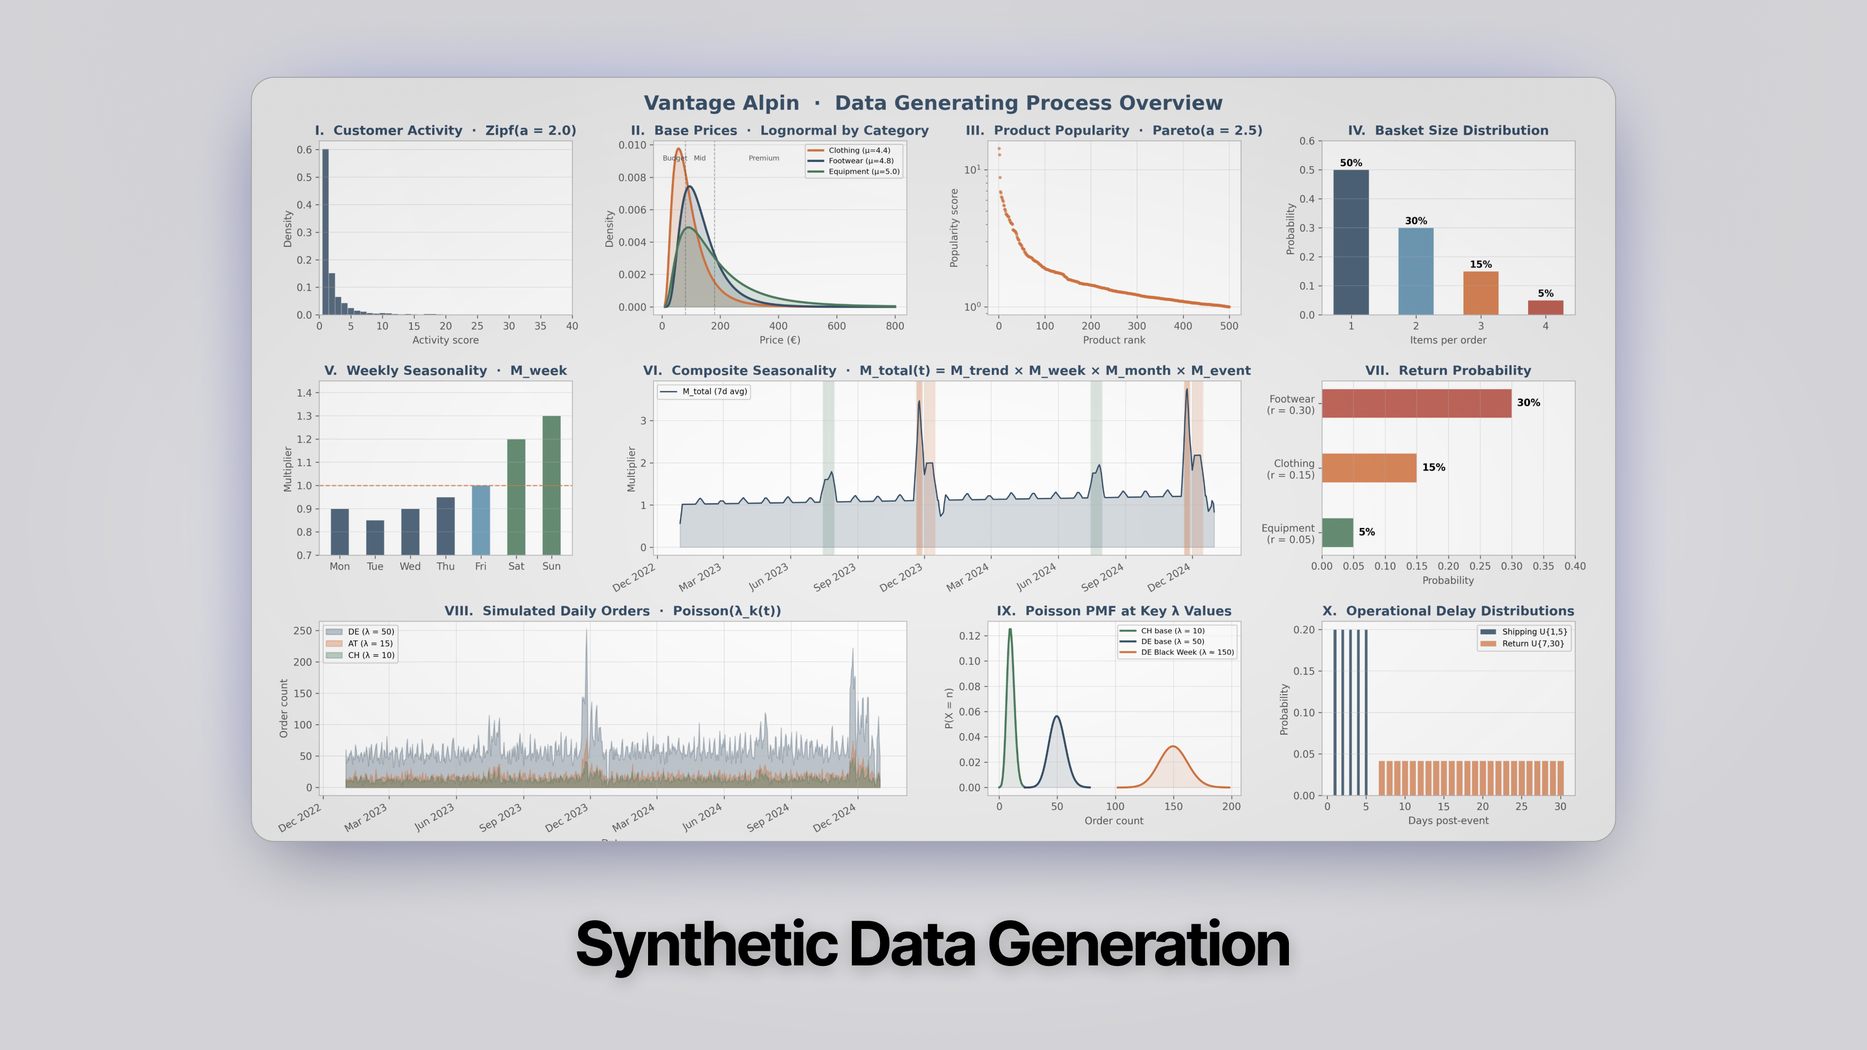
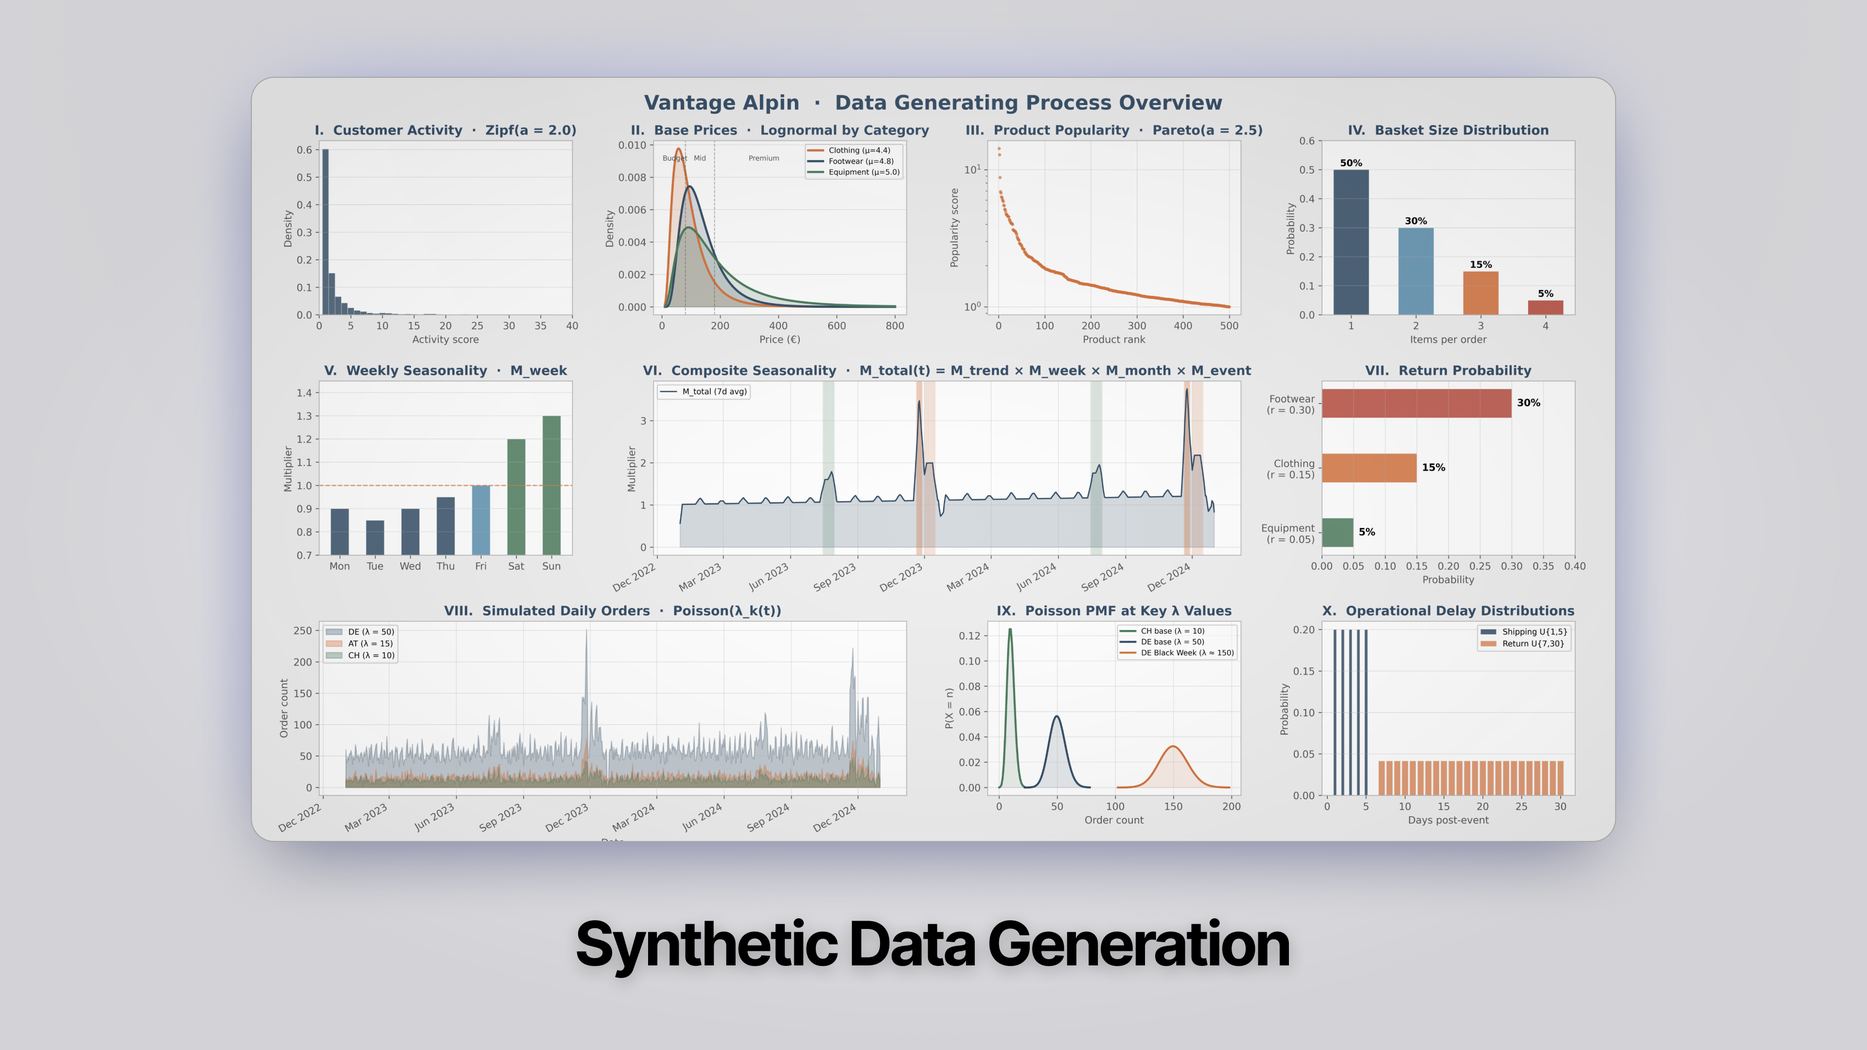
updated assets

diff --git a/vantage-rebuild/viz/semantic_model_taxonomy.html b/vantage-rebuild/viz/semantic_model_taxonomy.html
@@ -1,0 +1,311 @@
+<!DOCTYPE html>
+<html lang="en">
+<head>
+<meta charset="UTF-8">
+<meta name="viewport" content="width=1920">
+<title>Vantage Alpin — Semantic Model Taxonomy</title>
+<link href="https://fonts.googleapis.com/css2?family=Inter:wght@300;400;500;600;700;800&display=swap" rel="stylesheet">
+<style>
+  :root {
+    --card: #DCDBDC;
+    --primary: #334C65;
+    --accent: #D4723C;
+    --bg: #EEEDEE;
+    --text: #000000;
+    --text-muted: #555555;
+    --white: #FFFFFF;
+    --border: #C0BFC0;
+  }
+  * { margin: 0; padding: 0; box-sizing: border-box; }
+  body {
+    font-family: 'Inter', sans-serif;
+    background: var(--bg);
+    color: var(--text);
+    -webkit-font-smoothing: antialiased;
+    width: 1920px;
+    height: 1080px;
+    overflow: hidden;
+  }
+  .page {
+    width: 1920px;
+    height: 1080px;
+    padding: 40px 56px 32px;
+    display: flex;
+    flex-direction: column;
+  }
+  .header {
+    display: flex;
+    align-items: center;
+    justify-content: space-between;
+    margin-bottom: 28px;
+    flex-shrink: 0;
+  }
+  .header-left { display: flex; align-items: baseline; gap: 14px; }
+  .header h1 { font-size: 32px; font-weight: 700; letter-spacing: -0.5px; color: var(--primary); }
+  .header .subtitle { font-weight: 400; color: var(--text-muted); font-size: 20px; }
+  .header .badge { font-size: 11px; font-weight: 700; text-transform: uppercase; letter-spacing: 2px; color: var(--white); background: var(--accent); padding: 7px 18px; border-radius: 4px; }
+
+  .content {
+    display: grid;
+    grid-template-columns: 520px 1fr 1fr;
+    gap: 32px;
+    flex: 1;
+    min-height: 0;
+  }
+
+  .section-title {
+    font-size: 11px; font-weight: 700; text-transform: uppercase; letter-spacing: 2.5px;
+    color: var(--primary); margin-bottom: 14px; padding-bottom: 8px;
+    border-bottom: 2px solid var(--primary);
+    display: flex; align-items: center; gap: 8px;
+  }
+  .section-title .num {
+    background: var(--primary); color: var(--white);
+    width: 22px; height: 22px; border-radius: 3px;
+    display: inline-flex; align-items: center; justify-content: center;
+    font-size: 11px; font-weight: 700;
+  }
+
+  .folder-tree { display: flex; flex-direction: column; gap: 8px; }
+  .folder { background: var(--card); border-radius: 6px; overflow: hidden; }
+  .folder-header {
+    display: flex; align-items: center; gap: 10px;
+    padding: 9px 14px; background: var(--primary); color: var(--white);
+  }
+  .folder-header .folder-icon { font-size: 13px; opacity: 0.6; }
+  .folder-header .folder-name { font-size: 13px; font-weight: 600; flex: 1; }
+  .folder-header .folder-label { font-size: 9px; font-weight: 600; text-transform: uppercase; letter-spacing: 1.2px; opacity: 0.55; }
+  .folder-body { padding: 7px 14px; }
+  .subfolder-row {
+    display: flex; align-items: center; gap: 6px;
+    padding: 3px 0; border-bottom: 1px solid rgba(0,0,0,0.05);
+  }
+  .subfolder-row:last-child { border-bottom: none; }
+  .sf-icon { color: var(--accent); font-size: 10px; font-weight: 800; flex-shrink: 0; }
+  .sf-name { font-size: 11px; font-weight: 700; color: var(--text); white-space: nowrap; min-width: 62px; }
+  .measure-chips { display: flex; flex-wrap: wrap; gap: 3px; flex: 1; }
+  .chip {
+    font-size: 9.5px; font-weight: 500; background: var(--white); color: var(--text);
+    padding: 2px 7px; border-radius: 3px; white-space: nowrap;
+  }
+  .chip.accent { background: var(--accent); color: var(--white); }
+
+  .convention-table { width: 100%; border-collapse: collapse; font-size: 12px; }
+  .convention-table thead th {
+    text-align: left; padding: 8px 12px; background: var(--primary); color: var(--white);
+    font-weight: 600; font-size: 10px; text-transform: uppercase; letter-spacing: 1px;
+  }
+  .convention-table thead th:first-child { border-radius: 5px 0 0 0; }
+  .convention-table thead th:last-child { border-radius: 0 5px 0 0; }
+  .convention-table tbody td { padding: 7px 12px; background: var(--card); border-bottom: 1px solid var(--border); }
+  .convention-table tbody tr:last-child td { border-bottom: none; }
+  .convention-table tbody tr:last-child td:first-child { border-radius: 0 0 0 5px; }
+  .convention-table tbody tr:last-child td:last-child { border-radius: 0 0 5px 0; }
+  .comp-label { font-weight: 700; color: var(--primary); }
+  .example-code { font-weight: 600; color: var(--accent); font-size: 11px; }
+
+  .example-breakdown { background: var(--card); border-radius: 6px; padding: 16px 20px; margin-top: 14px; }
+  .example-breakdown .label { font-size: 9px; font-weight: 700; text-transform: uppercase; letter-spacing: 2px; color: var(--text-muted); margin-bottom: 12px; }
+  .measure-anatomy { display: flex; align-items: center; justify-content: center; gap: 6px; }
+  .anatomy-part { text-align: center; }
+  .anatomy-part .token { font-size: 18px; font-weight: 700; padding: 6px 14px; border-radius: 4px; display: inline-block; margin-bottom: 6px; }
+  .anatomy-part .token.metric { background: var(--primary); color: var(--white); }
+  .anatomy-part .token.agg { background: #4A7A5B; color: var(--white); }
+  .anatomy-part .token.comp { background: var(--accent); color: var(--white); }
+  .anatomy-part .desc { font-size: 9px; font-weight: 700; text-transform: uppercase; letter-spacing: 1.2px; }
+  .anatomy-part .desc.d-metric { color: var(--primary); }
+  .anatomy-part .desc.d-agg { color: #4A7A5B; }
+  .anatomy-part .desc.d-comp { color: var(--accent); }
+
+  .calc-group-card { background: var(--card); border-radius: 6px; overflow: hidden; }
+  .calc-group-header {
+    background: var(--primary); color: var(--white); padding: 9px 14px;
+    font-size: 13px; font-weight: 600; display: flex; align-items: center; gap: 10px;
+  }
+  .cg-badge { background: rgba(255,255,255,0.15); padding: 2px 10px; border-radius: 3px; font-size: 9px; font-weight: 700; text-transform: uppercase; letter-spacing: 1px; }
+  .calc-group-body { padding: 12px 14px; }
+  .cg-desc { font-size: 11px; color: var(--text-muted); margin-bottom: 10px; line-height: 1.45; }
+  .cg-items { display: grid; grid-template-columns: 1fr 1fr 1fr; gap: 6px; }
+  .cg-item { background: var(--white); border-radius: 4px; padding: 8px 10px; }
+  .cg-item-name { font-size: 12px; font-weight: 700; color: var(--primary); display: block; }
+  .cg-item-dax { font-size: 10px; color: var(--text-muted); display: block; }
+
+  .principles { display: grid; grid-template-columns: 1fr 1fr; gap: 8px; }
+  .principle { background: var(--white); border-radius: 4px; padding: 10px 12px; display: flex; align-items: flex-start; gap: 10px; }
+  .p-icon { width: 24px; height: 24px; border-radius: 3px; background: var(--primary); color: var(--white); display: flex; align-items: center; justify-content: center; flex-shrink: 0; font-weight: 700; font-size: 11px; }
+  .p-text { font-size: 10.5px; font-weight: 500; line-height: 1.4; color: var(--text); }
+  .p-text strong { font-weight: 700; color: var(--primary); }
+
+  .footer {
+    display: flex; align-items: center; justify-content: space-between;
+    padding-top: 14px; margin-top: 20px; border-top: 1px solid var(--border);
+    font-size: 11px; color: var(--text-muted); font-weight: 500; flex-shrink: 0;
+  }
+  .footer .dot { width: 5px; height: 5px; border-radius: 50%; background: var(--accent); display: inline-block; margin: 0 8px; vertical-align: middle; }
+</style>
+</head>
+<body>
+<div class="page">
+  <div class="header">
+    <div class="header-left">
+      <h1>Semantic Model Taxonomy</h1>
+      <span class="subtitle">Vantage Alpin BI</span>
+    </div>
+    <div class="badge">DAX Engineering</div>
+  </div>
+
+  <div class="content">
+    <!-- COL 1: Folder Taxonomy -->
+    <div>
+      <div class="section-title"><span class="num">1</span> Measure Folder Taxonomy</div>
+      <div class="folder-tree">
+        <div class="folder">
+          <div class="folder-header">
+            <span class="folder-icon">📁</span>
+            <span class="folder-name">00 — Base Measures</span>
+            <span class="folder-label">Atomic Aggregations</span>
+          </div>
+          <div class="folder-body">
+            <div class="subfolder-row"><span class="sf-icon">›</span><span class="sf-name">Revenue</span><div class="measure-chips"><span class="chip">Gross Revenue ACT (€)</span><span class="chip">Gross Revenue BUD (€)</span></div></div>
+            <div class="subfolder-row"><span class="sf-icon">›</span><span class="sf-name">Cost</span><div class="measure-chips"><span class="chip">COGS Total ACT (€)</span><span class="chip">Marketing Cost ACT (€)</span><span class="chip">Logistics Cost ACT (€)</span></div></div>
+            <div class="subfolder-row"><span class="sf-icon">›</span><span class="sf-name">Orders</span><div class="measure-chips"><span class="chip">Orders Total ACT (#)</span><span class="chip">Quantity Total ACT (#)</span></div></div>
+            <div class="subfolder-row"><span class="sf-icon">›</span><span class="sf-name">Returns</span><div class="measure-chips"><span class="chip">Returned ACT (€)</span><span class="chip">Returned ACT (%)</span></div></div>
+            <div class="subfolder-row"><span class="sf-icon">›</span><span class="sf-name">Profit</span><div class="measure-chips"><span class="chip">Profit ACT (€)</span><span class="chip">Profit ACT MoM %</span></div></div>
+          </div>
+        </div>
+        <div class="folder">
+          <div class="folder-header">
+            <span class="folder-icon">📁</span>
+            <span class="folder-name">01 — Time Intelligence</span>
+            <span class="folder-label">Period-to-Date</span>
+          </div>
+          <div class="folder-body">
+            <div class="subfolder-row"><span class="sf-icon">›</span><span class="sf-name">Revenue</span><div class="measure-chips"><span class="chip">MTD</span><span class="chip">QTD</span><span class="chip">YTD</span><span class="chip">LM</span><span class="chip">MoM (€)</span><span class="chip accent">Display variants</span></div></div>
+          </div>
+        </div>
+        <div class="folder">
+          <div class="folder-header">
+            <span class="folder-icon">📁</span>
+            <span class="folder-name">02 — Comparisons</span>
+            <span class="folder-label">Variance & Benchmarking</span>
+          </div>
+          <div class="folder-body">
+            <div class="subfolder-row"><span class="sf-icon">›</span><span class="sf-name">vs Budget</span><div class="measure-chips"><span class="chip">VAR vs BUD (€)</span><span class="chip">VAR vs BUD (%)</span><span class="chip">Delta MTD / QTD / YTD</span></div></div>
+            <div class="subfolder-row"><span class="sf-icon">›</span><span class="sf-name">YoY</span><div class="measure-chips"><span class="chip">Δ% Revenue</span><span class="chip">Δ% COGS</span><span class="chip">Δ% Orders</span><span class="chip">Δ (bps) CM1</span><span class="chip">Δ (bps) CM2</span></div></div>
+          </div>
+        </div>
+        <div class="folder">
+          <div class="folder-header">
+            <span class="folder-icon">📁</span>
+            <span class="folder-name">03 — Business Performance</span>
+            <span class="folder-label">Derived P&L</span>
+          </div>
+          <div class="folder-body">
+            <div class="subfolder-row"><span class="sf-icon">›</span><span class="sf-name">CM1</span><div class="measure-chips"><span class="chip">CM1 ACT (€)</span><span class="chip">CM1 Margin ACT (%)</span></div></div>
+            <div class="subfolder-row"><span class="sf-icon">›</span><span class="sf-name">CM2</span><div class="measure-chips"><span class="chip">CM2 ACT (€)</span><span class="chip">CM2 Margin ACT (%)</span></div></div>
+            <div class="subfolder-row"><span class="sf-icon">›</span><span class="sf-name">Profit</span><div class="measure-chips"><span class="chip">Returned Profit Impact (€)</span></div></div>
+          </div>
+        </div>
+        <div class="folder">
+          <div class="folder-header">
+            <span class="folder-icon">📁</span>
+            <span class="folder-name">99 — Technical Framework</span>
+            <span class="folder-label">Non-Analytical</span>
+          </div>
+          <div class="folder-body">
+            <div class="subfolder-row"><span class="sf-icon">›</span><span class="sf-name" style="min-width:auto">Display</span><div class="measure-chips"><span class="chip">Auto-format (K/M/B)</span><span class="chip">YoY ▲▼</span><span class="chip">Applied Filters</span><span class="chip accent">Axis Scale (25%)</span></div></div>
+            <div class="subfolder-row"><span class="sf-icon">›</span><span class="sf-name" style="min-width:auto">Waterfall</span><div class="measure-chips"><span class="chip">Sign-flipped cost measures (×−1)</span></div></div>
+          </div>
+        </div>
+      </div>
+    </div>
+
+    <!-- COL 2: Naming Convention + Principles -->
+    <div>
+      <div class="section-title"><span class="num">2</span> Naming Convention</div>
+      <table class="convention-table">
+        <thead><tr><th>Component</th><th>Convention</th><th>Example</th></tr></thead>
+        <tbody>
+          <tr><td class="comp-label">Metric</td><td>Business term</td><td class="example-code">Gross Revenue · CM2 Margin · AOV</td></tr>
+          <tr><td class="comp-label">Scenario</td><td>ACT · BUD · LM</td><td class="example-code">Actual · Budget · Last Month</td></tr>
+          <tr><td class="comp-label">Aggregation</td><td>MTD · QTD · YTD</td><td class="example-code">Period-to-date variants</td></tr>
+          <tr><td class="comp-label">Comparison</td><td>Δ% · Δ (bps) · VAR vs</td><td class="example-code">Relative · Basis pts · Variance</td></tr>
+          <tr><td class="comp-label">Unit</td><td>(€) · (%) · (#)</td><td class="example-code">Currency · Ratio · Count</td></tr>
+          <tr><td class="comp-label">Suffix</td><td>Display · AF</td><td class="example-code">String-formatted · Auto-fmt</td></tr>
+        </tbody>
+      </table>
+      <div class="example-breakdown">
+        <div class="label">Example — Measure Anatomy</div>
+        <div class="measure-anatomy">
+          <div class="anatomy-part"><div class="token metric">Gross Revenue</div><div class="desc d-metric">Metric</div></div>
+          <div class="anatomy-part"><div class="token agg">MTD</div><div class="desc d-agg">Aggregation</div></div>
+          <div class="anatomy-part"><div class="token comp">Δ% YoY</div><div class="desc d-comp">Comparison</div></div>
+        </div>
+      </div>
+      <div style="margin-top: 20px;">
+        <div class="section-title"><span class="num">4</span> Design Principles</div>
+        <div class="principles">
+          <div class="principle"><div class="p-icon">L</div><div class="p-text"><strong>Layered deps</strong> — Only 00 touches fact tables. Each layer builds on prior layers.</div></div>
+          <div class="principle"><div class="p-icon">S</div><div class="p-text"><strong>Num / Display split</strong> — Typed values for logic, formatted strings for cards.</div></div>
+          <div class="principle"><div class="p-icon">W</div><div class="p-text"><strong>Waterfall convention</strong> — Cost measures pre-flipped (×−1) for rendering.</div></div>
+          <div class="principle"><div class="p-icon">D</div><div class="p-text"><strong>Single date table</strong> — synth_dim_date with DACH holidays & ISO fiscal.</div></div>
+        </div>
+      </div>
+    </div>
+
+    <!-- COL 3: Calc Groups + Dependency -->
+    <div>
+      <div class="section-title"><span class="num">3</span> Calculation Groups</div>
+      <div class="calc-group-card">
+        <div class="calc-group-header"><span>CG — Time Intelligence</span><span class="cg-badge">Reduces Measure Bloat</span></div>
+        <div class="calc-group-body">
+          <div class="cg-desc">Applies time intelligence transformations dynamically to any base measure via a single slicer, eliminating separate MTD/QTD/YTD versions of every metric.</div>
+          <div class="cg-items">
+            <div class="cg-item"><span class="cg-item-name">Current</span><span class="cg-item-dax">SELECTEDMEASURE()</span></div>
+            <div class="cg-item"><span class="cg-item-name">MTD</span><span class="cg-item-dax">TOTALMTD( … )</span></div>
+            <div class="cg-item"><span class="cg-item-name">QTD</span><span class="cg-item-dax">TOTALQTD( … )</span></div>
+            <div class="cg-item"><span class="cg-item-name">YTD</span><span class="cg-item-dax">TOTALYTD( … )</span></div>
+            <div class="cg-item"><span class="cg-item-name">PY</span><span class="cg-item-dax">SAMEPERIODLASTYEAR(…)</span></div>
+            <div class="cg-item"><span class="cg-item-name">PY MTD</span><span class="cg-item-dax">TOTALMTD + SPLY</span></div>
+          </div>
+        </div>
+      </div>
+      <div class="calc-group-card" style="margin-top: 12px;">
+        <div class="calc-group-header"><span>Field Parameters</span><span class="cg-badge">Dynamic Interactivity</span></div>
+        <div class="calc-group-body">
+          <div class="cg-desc">Enable users to switch between metrics and time granularities via slicers — one layout, many perspectives.</div>
+          <div class="cg-items" style="grid-template-columns: 1fr 1fr;">
+            <div class="cg-item"><span class="cg-item-name">param_kpis</span><span class="cg-item-dax">Revenue, CM1, CM2, AOV, Orders …</span></div>
+            <div class="cg-item"><span class="cg-item-name">param_date</span><span class="cg-item-dax">Day, Week, Month, Quarter</span></div>
+          </div>
+        </div>
+      </div>
+      <div style="margin-top: 20px;">
+        <div class="section-title"><span class="num">5</span> Dependency Flow</div>
+        <div style="background: var(--card); border-radius: 6px; padding: 20px 20px 16px; text-align: center;">
+          <div style="display: flex; align-items: center; justify-content: center; gap: 0;">
+            <div style="background: var(--primary); color: var(--white); padding: 12px 18px; border-radius: 5px; font-size: 12px; font-weight: 700; line-height: 1.3; text-align: center;">00<br><span style="font-weight: 400; font-size: 10px; opacity: 0.7;">Base</span></div>
+            <div style="width: 36px; height: 2px; background: var(--primary); position: relative;"><div style="position: absolute; right: -3px; top: -4px; width: 0; height: 0; border-left: 8px solid var(--primary); border-top: 5px solid transparent; border-bottom: 5px solid transparent;"></div></div>
+            <div style="background: var(--primary); color: var(--white); padding: 12px 18px; border-radius: 5px; font-size: 12px; font-weight: 700; line-height: 1.3; text-align: center;">01<br><span style="font-weight: 400; font-size: 10px; opacity: 0.7;">Time Intel</span></div>
+            <div style="width: 36px; height: 2px; background: var(--primary); position: relative;"><div style="position: absolute; right: -3px; top: -4px; width: 0; height: 0; border-left: 8px solid var(--primary); border-top: 5px solid transparent; border-bottom: 5px solid transparent;"></div></div>
+            <div style="background: var(--primary); color: var(--white); padding: 12px 18px; border-radius: 5px; font-size: 12px; font-weight: 700; line-height: 1.3; text-align: center;">02<br><span style="font-weight: 400; font-size: 10px; opacity: 0.7;">Compare</span></div>
+            <div style="width: 36px; height: 2px; background: var(--primary); position: relative;"><div style="position: absolute; right: -3px; top: -4px; width: 0; height: 0; border-left: 8px solid var(--primary); border-top: 5px solid transparent; border-bottom: 5px solid transparent;"></div></div>
+            <div style="background: var(--primary); color: var(--white); padding: 12px 18px; border-radius: 5px; font-size: 12px; font-weight: 700; line-height: 1.3; text-align: center;">03<br><span style="font-weight: 400; font-size: 10px; opacity: 0.7;">Biz Perf</span></div>
+          </div>
+          <div style="margin-top: 14px; display: flex; align-items: center; justify-content: center; gap: 8px;">
+            <div style="width: 10px; height: 10px; border-radius: 2px; background: var(--accent);"></div>
+            <span style="font-size: 10px; font-weight: 600; color: var(--text-muted);">99 — Technical Framework operates across all layers (formatting, waterfall helpers)</span>
+          </div>
+          <div style="margin-top: 10px; font-size: 10px; color: var(--text-muted); font-weight: 500;">Each layer references only measures from prior layers — never raw columns</div>
+        </div>
+      </div>
+    </div>
+  </div>
+
+  <div class="footer">
+    <span>Vantage Alpin <span class="dot"></span> Semantic Model <span class="dot"></span> _Measuretable</span>
+    <span>Star Schema · No Calculated Columns · TMDL Version Controlled</span>
+  </div>
+</div>
+</body>
+</html>

diff --git a/README.md b/README.md
@@ -5,6 +5,20 @@
 ![dbt](https://img.shields.io/badge/dbt-FF694B?style=for-the-badge&logo=dbt&logoColor=white)
 ![Power BI](https://img.shields.io/badge/Power_BI-F2C811?style=for-the-badge&logo=powerbi&logoColor=black)
 
+<br>
+
+### 📺 Watch the Video Walkthrough
+
+Prefer a visual overview? Check out the **[project walkthrough on YouTube](https://www.youtube.com/watch?v=QGwda9UsQHg)** for a comprehensive look at the pipeline, data architecture, and the final dashboard.
+
+<div align="center">
+  <a href="https://www.youtube.com/watch?v=QGwda9UsQHg">
+    <img src="vantage-rebuild/viz/vantage_dashboard_main_YT.png" alt="Vantage Dashboard Project Walkthrough on YouTube" width="600">
+  </a>
+</div>
+
+<br>
+
 ## 1. Project Overview
 This project acts as the "Single Source of Truth" for Vantage Alpin's financial reporting. It replaces legacy PDF reports with a dynamic Modern Data Stack (MDS). By simulating a realistic e-commerce environment, transforming raw stochastic data into a clean Star Schema, and serving it via a robust dimensional model, it delivers a highly scalable and interactive Business Intelligence experience.
 
